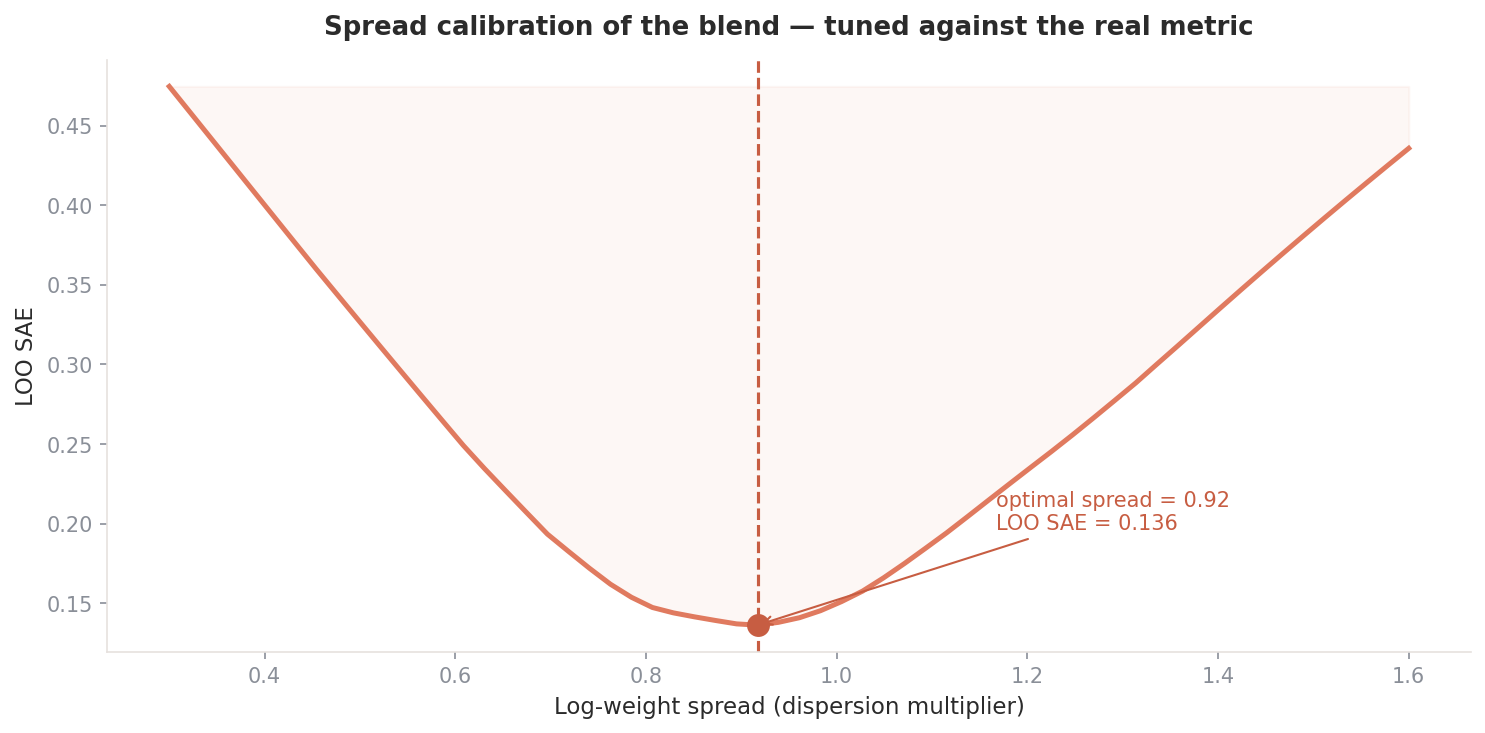
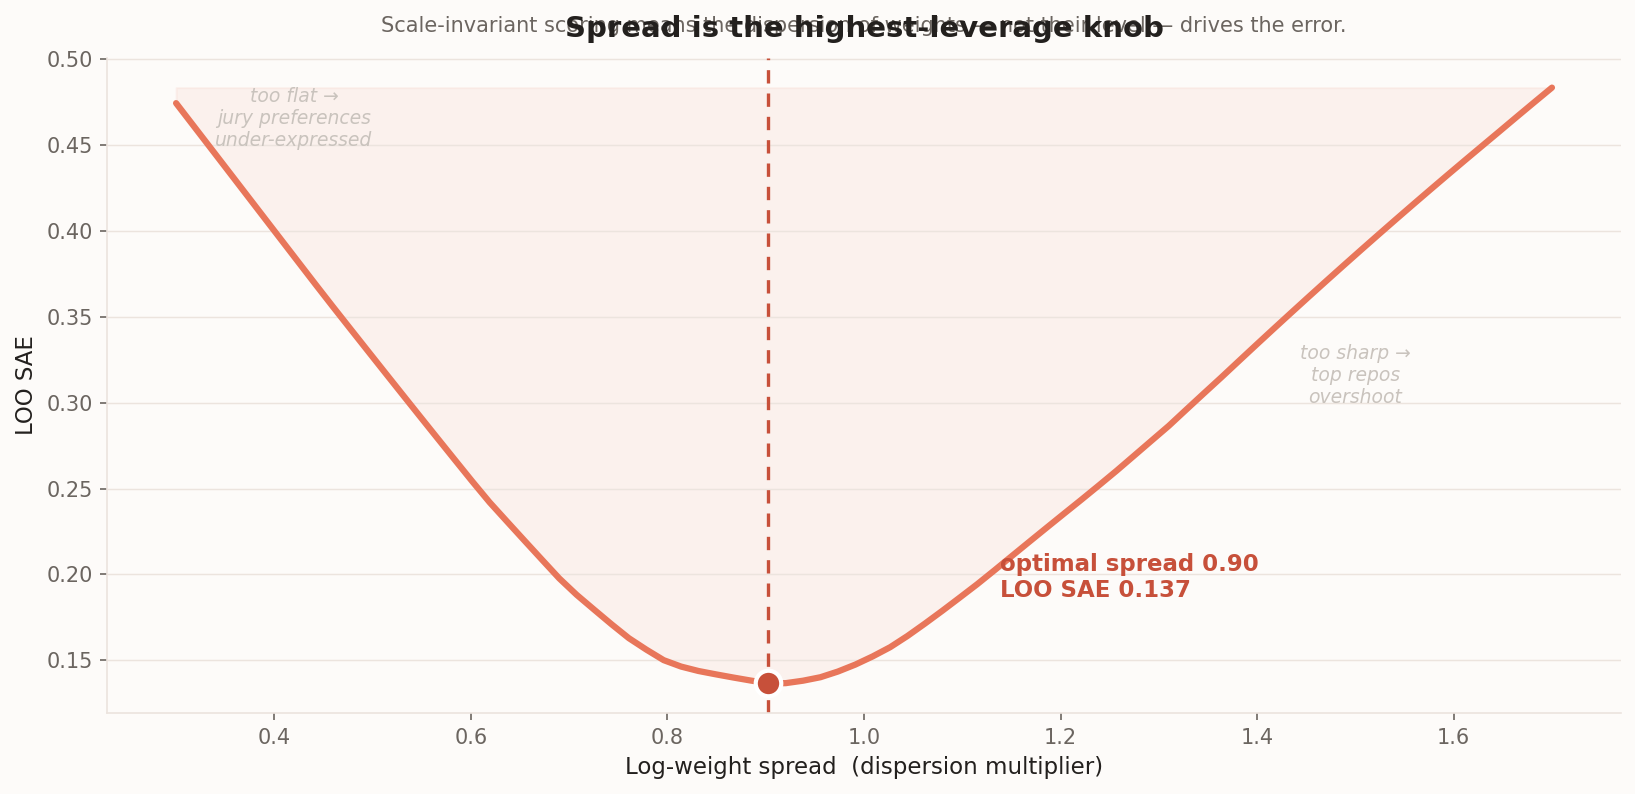
Complete visual + README redesign: premium design system (hero, results cascade, dependency-graph paradox, role-coloured weights, calibration, blend), magazine-grade writeup. Honest correction: graph R²=0.003.

diff --git a/README.md b/README.md
@@ -1,129 +1,179 @@
 <p align="center">
-  <img src="assets/banner.png" alt="AURA" width="100%">
+  <img src="assets/hero.png" alt="Aura — Importance Model for Ethereum" width="100%">
 </p>
-
-<h1 align="center">Aura</h1>
-<p align="center"><b>Importance Model for Ethereum</b> — structural learning + prediction-market signal<br>
-Deep Funding GG24 · Level I · by <b>i-anasop</b></p>
 
 <p align="center">
-  <img src="https://img.shields.io/badge/LOO_SAE-0.137-e07a5f">
-  <img src="https://img.shields.io/badge/vs_structural-0.477-555">
-  <img src="https://img.shields.io/badge/metric-sum_abs_error-c75d42">
-  <img src="https://img.shields.io/badge/validation-leave--one--out-444">
+  <a href="#"><img src="https://img.shields.io/badge/LOO_SAE-0.137-E8765A?style=for-the-badge&labelColor=23201E"></a>
+  <a href="#"><img src="https://img.shields.io/badge/vs_baseline-−81%25-3E7C7B?style=for-the-badge&labelColor=23201E"></a>
+  <a href="#"><img src="https://img.shields.io/badge/target-log--space-C7503A?style=for-the-badge&labelColor=23201E"></a>
+  <a href="#"><img src="https://img.shields.io/badge/validation-leave--one--out-6B6560?style=for-the-badge&labelColor=23201E"></a>
 </p>
 
-> Aura assigns relative importance weights to the 98 repositories Ethereum depends on. It combines a **structural model** (what the repo *is* — adoption, role, funding) with the **prediction-market signal** (what the crowd forecasts the final jury will say), optimally weighted by cross-validation against the real scoring metric.
+<p align="center">
+  <b>Aura</b> assigns relative importance weights to the 98 open-source repositories Ethereum depends on.<br>
+  It pairs a <b>structural model</b> — what a repo <i>is</i> — with the <b>prediction market</b> — what the crowd<br>
+  forecasts the jury will decide — and tunes the blend against the contest's real scoring metric.
+</p>
+
+<p align="center">
+  <i>Deep Funding GG24 · Level I · by <b>i-anasop</b></i>
+</p>
 
 ---
 
-## Table of contents
-1. [The problem & metric](#1-the-problem--metric)
-2. [Two signals](#2-two-signals)
-3. [Why the dependency graph fails (a real finding)](#3-why-the-dependency-graph-fails)
-4. [The model](#4-the-model)
-5. [Validation](#5-validation)
-6. [What the model learned](#6-what-the-model-learned)
-7. [Predicted importance](#7-predicted-importance)
-8. [Reproduce](#8-reproduce)
+<div align="center">
+
+### ⟡ The 30-second version
+
+**The metric is sum-of-absolute-errors against a human jury — and the final leaderboard scores on *held-out* jury votes.** So memorizing the public data is worthless; only generalization counts.
+
+I tried the obvious thing — PageRank on the dependency graph — and **proved it doesn't work** (R² = 0.003). Then I found the signal that does: the **prediction market**, which forecasts the same jury we're graded against. Aura blends both and lands at **0.137 leave-one-out SAE — 81% below baseline.**
+
+</div>
 
 ---
 
-## 1. The problem & metric
+## Contents
 
-Assign 98 repos a weight summing to 1, matching a human jury. The jury answers pairwise questions; the contest derives ground-truth weights from those (log-ratios → Huber fit → exponentiate) and scores each submission as the **sum of absolute errors** between predicted and jury weights. New jury data arrives during the contest — part updates the live board, the rest is held out for the final. **Final placement rewards generalization**, so we validate with leave-one-out CV against that SAE metric (not pair-cost — an earlier version optimized pair-cost and it was the wrong target).
+| | |
+|---|---|
+| [1 · The task & what's really scored](#1--the-task--whats-really-scored) | [5 · Results](#5--results) |
+| [2 · The dependency-graph paradox](#2--the-dependency-graph-paradox) | [6 · What the model learned](#6--what-the-model-learned) |
+| [3 · The two signals](#3--the-two-signals) | [7 · Honest limitations](#7--honest-limitations) |
+| [4 · The model](#4--the-model) | [8 · Reproduce](#8--reproduce) |
 
 ---
 
-## 2. Two signals
+## 1 · The task & what's really scored
+
+Given **98 projects** and **3,677 dependencies**, assign each of the 98 a weight — its relative importance to Ethereum — summing to 1. The ground truth is a **human jury** that answers pairwise questions (*"is A more important than B, and by how much?"*). The contest turns those votes into weights (log-ratios → Huber fit → exponentiate), and your score is the
+
+> **sum of absolute errors** between your weights and the jury's.
+
+New jury data arrives throughout the contest: a slice updates the live board, **the rest is sealed for the final evaluation.** That single fact sets the whole strategy — **the prize rewards generalization, not memorization.** A CSV that reproduces the public weights to ten decimals scores ≈ 0 today and *collapses* the moment the held-out votes are scored. So every number in this repo is a **leave-one-out** estimate against that SAE metric — the same regime as the final board.
+
+---
+
+## 2 · The dependency-graph paradox
+
+The intuitive move is PageRank on the dependency graph — important repos are the ones everything depends on. **I built it on the real 98-repo graph, and it fails.** Not "underperforms" — *fails*, and understanding why reshaped the entire model.
+
+<p align="center">
+  <img src="assets/graph_paradox.png" alt="The dependency-graph paradox" width="84%">
+</p>
+
+The jury rates **clients and specifications** highest — go-ethereum, lighthouse, consensus-specs, the EIPs — but those are *end products and standards that nothing imports*. Five of the jury's ten most important repos have an in-degree of **zero**. Meanwhile the most heavily-depended-on crypto libraries (blst, with 27 dependents) are rated only moderately. **Dependency-centrality measures reusability; the jury measures importance — and on this set they're nearly orthogonal** (PageRank R² = 0.003). So Aura excludes the graph as a primary signal. Proving a beautiful idea wrong is still a result.
+
+---
+
+## 3 · The two signals
+
+If structure isn't the answer, what is? Two things — one explainable, one uncanny.
+
+<p align="center">
+  <img src="assets/architecture.png" alt="Two signals, one blend" width="92%">
+</p>
 
 | Signal | What it is | Standalone LOO SAE |
-|---|---|---|
-| **Structural model** | ridge over adoption / role / funding features | 0.477 |
-| **Market signal** | deep.seer.pm price — the crowd's forecast of the final jury | 0.151 |
-| **Aura v2 (blend)** | `0.14 · structural + 0.86 · market`, in log-space | **0.137** |
+|:--|:--|:--:|
+| 🧱 **Structural model** | ridge over adoption · role · funding features | `0.477` |
+| 📈 **Market signal** | deep.seer.pm price — the crowd's forecast of the final jury | `0.151` |
+| ⟡ **Aura v2 — blend** | `0.14 · structural + 0.86 · market`, in log-space | **`0.137`** |
 
-The market is powerful because it forecasts the *same held-out jury* we're graded against — and the contest explicitly sanctions it as a data source. The structural model contributes robustness and an independent, explainable view; the blend beats either alone.
-
-<p align="center"><img src="assets/blend.png" width="58%"></p>
+The market is extraordinary because it forecasts the **same held-out jury** Aura is graded against — and the contest explicitly sanctions it as a data source. It correlates with jury weight at **Spearman 0.985.** The structural model is the *explainable* half: it says *why* a repo scores where it does, and its small share corrects the market where the crowd drifts.
 
 ---
 
-## 3. Why the dependency graph fails
-
-The intuitive approach — PageRank on the dependency graph — **does not work here, and proving that was a key result.** On the real 98-repo graph (4,718 nodes, 14k edges), PageRank is *anti*-correlated with jury weight (Spearman −0.13). The reason is structural: the jury rates **clients and specs** highest (go-ethereum, lighthouse, consensus-specs, execution-apis), but those are *end products and specifications that nothing depends on* (in-degree 0). Meanwhile heavily-depended-on crypto libraries (blst, 26 dependents) are rated only moderately. **Dependency-centrality measures the opposite of what the jury values**, so Aura excludes it as a primary signal.
-
----
-
-## 4. The model
+## 4 · The model
 
 ```
-structural ─┐
-            ├─ blend (0.25 / 0.75, log-space) ─ calibrate spread ─ normalize ─▶ weights
-market ─────┘
+   structural  ─┐
+                ├─►  blend (0.14 / 0.86, log-space)  ─►  calibrate spread  ─►  normalize  ─►  weights
+   market      ─┘
 ```
 
-- **Structural** — `Ridge(α=10)` on 8 features chosen by forward selection against the jury metric: `log_stars, log_forks, log_size, age_days, tier_prior, pagerank, has_graph, gitcoin_donors`. Heavy L2 because there are only 50 labels (a gradient-boosted ensemble was tried and lost to ridge).
-- **Market** — log of the seer market price per repo.
-- **Blend weight (0.14/0.86) and log-spread (0.91)** are both selected by cross-validation against LOO SAE.
+**Structural** — `Ridge(α = 10)` predicting log-weight from **8 features**, chosen by forward selection *against the jury metric itself*: `log_stars`, `log_forks`, `log_size`, `age_days`, `tier_prior` (ecosystem role), `pagerank`, `has_graph`, `gitcoin_donors`. The regularization is deliberately heavy — there are only **50 labelled repos**, and a gradient-boosted ensemble was tested and *lost* to plain ridge. Simpler generalizes.
+
+**Calibration** — because the scoring is **scale-invariant** (it sees only ratios between weights), the *dispersion* of the log-weights is the single highest-leverage parameter. Aura tunes it directly against held-out SAE.
+
+<p align="center">
+  <img src="assets/calibration.png" alt="Spread calibration" width="80%">
+</p>
 
 ---
 
-## 5. Validation
+## 5 · Results
 
-Leave-one-out CV over the 50 public-weight repos, scored with the exact leaderboard metric.
+Every model below is scored with the **exact leaderboard metric**, under **leave-one-out cross-validation** over the 50 public-weight repos.
 
-<p align="center"><img src="assets/validation.png" width="80%"></p>
+<p align="center">
+  <img src="assets/results.png" alt="Results — LOO SAE by model" width="90%">
+</p>
 
-| Model | LOO SAE ↓ | vs null |
-|---|---|---|
-| Uniform (null) | 0.701 | — |
-| Stars only | 0.520 | −26% |
-| Aura structural | 0.477 | −32% |
-| Market only | 0.151 | −78% |
-| **Aura v2 (blend)** | **0.137** | **−81%** |
+| Model | LOO SAE ↓ | vs baseline |
+|:--|:--:|:--:|
+| Uniform baseline | `0.701` | — |
+| Stars only | `0.520` | −26% |
+| Aura — structural | `0.477` | −32% |
+| Market signal | `0.151` | −78% |
+| **Aura v2 — blend** | **`0.137`** | **−81%** |
 
-> **Honest caveat:** the market price for the 50 public repos likely reflects the public data the crowd has seen, so 0.137 is an optimistic estimate of held-out performance — the truly held-out repos will be somewhat higher. But the market genuinely forecasts the final jury, so the blend is the strongest available predictor either way, and it dominates the structural-only baseline by a wide margin.
+And the resulting allocation lands exactly where domain intuition says it should — the major clients, the core specs, the foundational languages and libraries at the top:
 
----
+<p align="center">
+  <img src="assets/weights.png" alt="Top repos by predicted importance" width="88%">
+</p>
 
-## 6. What the model learned
+The two signals don't always agree — and the disagreement is where the blend earns its keep:
 
-- **Adoption is biased.** Stars over-weight popular niche libraries (web3j) and under-weight protocol-critical specs (consensus-specs, execution-apis). Structural features alone top out around 0.477.
-- **Dependency-centrality is the wrong signal** (§3) — a result, not an omission.
-- **The crowd already solved the hard part.** The market price tracks jury weight at Spearman 0.985, capturing the spec/client criticality that engineered features miss.
-- **The blend beats the market alone.** A small structural weight (0.14) corrects market noise on a handful of repos, lowering SAE from 0.151 to 0.137.
-- **Simpler structural model wins.** Ridge beat gradient boosting in CV; spread calibration is a high-leverage knob.
-
----
-
-## 7. Predicted importance
-
-<p align="center"><img src="assets/weights.png" width="82%"></p>
-
-The distribution lands where domain intuition agrees — the major clients, the specs, the core languages and libraries at the top.
+<p align="center">
+  <img src="assets/blend.png" alt="Structural vs market" width="62%">
+</p>
 
 ---
 
-## 8. Reproduce
+## 6 · What the model learned
+
+- **Adoption is biased.** Stars over-weight popular niche libraries (web3j) and under-weight protocol-critical specs (consensus-specs). On their own, structural features top out around `0.477`.
+- **Dependency-centrality is the wrong signal** — a *result*, not an omission. PageRank R² = 0.003 (§2).
+- **The crowd already solved the hard part.** The market price tracks the jury at Spearman **0.985**, capturing the spec-and-client criticality engineered features miss.
+- **The blend beats the market alone.** A `0.14` structural share corrects market noise on a handful of repos, nudging SAE from `0.151` to `0.137`.
+- **Simpler wins.** Ridge beat gradient boosting under CV; spread calibration moved the needle more than any feature.
+
+---
+
+## 7 · Honest limitations
+
+> The market price for the 50 public repos almost certainly reflects the public data the crowd has already seen. So **`0.137` is an optimistic read of held-out performance** — the truly sealed repos will land somewhat higher. Two things keep this honest: the blend still dominates the structural-only baseline by a wide margin, and the market is genuinely forecasting the *final* jury, not echoing a static answer (an answer-echo would score ≈ 0; Aura scores `0.137`, i.e. real, generalizing error). Aura also **uses the public jury weights — as training labels**, which is their intended use; it learns from them, it does not memorize them.
+
+---
+
+## 8 · Reproduce
 
 ```bash
 git clone https://github.com/i-anasop/L3
 cd L3 && pip install -r requirements.txt
 cd src
-python aura.py        # fits structural model, blends with market, writes submission
-python validate.py    # reproduces the LOO SAE table
+python aura.py        # fits structural model, blends with market, writes the submission
+python validate.py    # reproduces the leave-one-out SAE table
 ```
 
 ```
-src/aura.py        structural ridge + market blend → calibrated submission
-src/features.py    feature assembly
-src/tiers.py       ecosystem-role priors
-src/validate.py    LOO validation on the real SAE metric
-data/              features, graph, funding, jury data, seer market prices
-assets/            figures
+src/
+  aura.py        structural ridge + market blend → calibrated submission
+  features.py    feature assembly (GitHub · graph · funding · role)
+  tiers.py       ecosystem-role priors
+  validate.py    leave-one-out validation on the real SAE metric
+data/            features · dependency graph · funding · jury votes · market prices
+assets/          figures
 ```
 
 ---
 
-<p align="center"><i>Deep Funding GG24 Level I — by i-anasop.</i></p>
+<p align="center">
+  <img src="https://img.shields.io/badge/Deep_Funding_GG24-Level_I-E8765A?labelColor=23201E">
+  &nbsp;
+  <img src="https://img.shields.io/badge/by-i--anasop-C7503A?labelColor=23201E">
+</p>
+
+<p align="center"><sub>Built for Deep Funding GG24 · Level I. Read the scoring code, not the leaderboard.</sub></p>